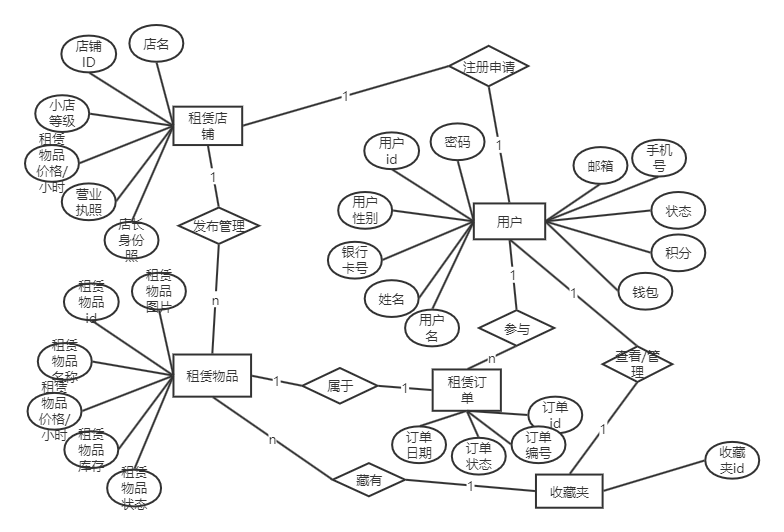
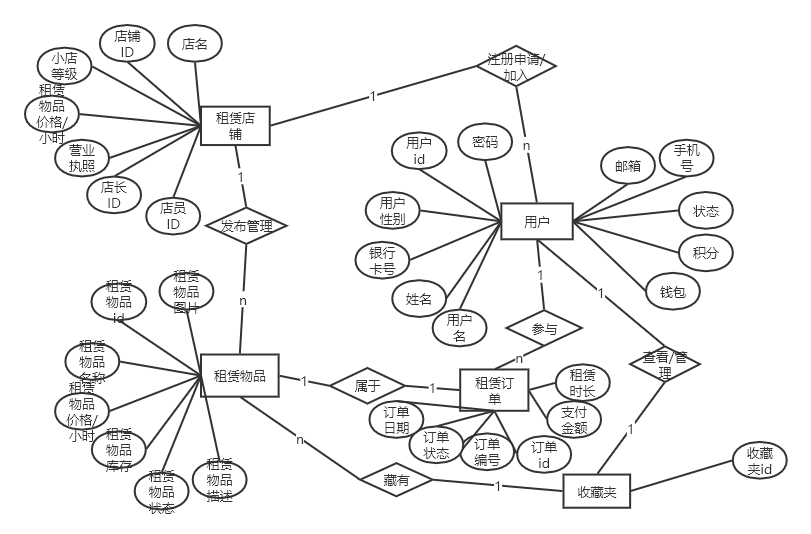
关于数据库的概要、详设和ER图的修改

Changed region(s): [[0.0306, 0.0301, 0.9184, 0.9624], [0.8265, 0.812, 0.9796, 0.9023], [0.7041, 0.5113, 0.7347, 0.5414]]

diff --git a/week_03/概要设计说明书.md b/week_03/概要设计说明书.md
@@ -389,7 +389,7 @@
     <td>char</td>
   </tr>
   <tr>
-    <td rowspan="6">商品</td>
+    <td rowspan="7">商品</td>
     <td>商品ID</td>
     <td>int</td>
   </tr>
@@ -414,7 +414,11 @@
     <td>char</td>
   </tr>
   <tr>
-    <td rowspan="5">店铺表</td>
+    <td>描述</td>
+    <td>char</td>
+  </tr>
+  <tr>
+    <td rowspan="6">店铺表</td>
     <td>店铺ID</td>
     <td>int</td>
   </tr>
@@ -435,6 +439,10 @@
     <td>int</td>
   </tr>
   <tr>
+    <td>店员ID</td>
+    <td>int[]</td>
+  </tr>
+  <tr>
     <td rowspan="4">收藏夹</td>
     <td>收藏夹ID</td>
     <td>int</td>
@@ -452,7 +460,7 @@
     <td>int</td>
   </tr>
   <tr>
-    <td rowspan="6">订单</td>
+    <td rowspan="8">订单</td>
     <td>订单ID</td>
     <td>int</td>
   </tr>
@@ -475,6 +483,14 @@
   <tr>
     <td>订单日期</td>
     <td>char</td>
+  </tr>
+  <tr>
+    <td>支付金额</td>
+    <td>int</td>
+  </tr>
+  <tr>
+    <td>租赁时长</td>
+    <td>int</td>
   </tr>
   <tr>
     <td rowspan="7">地址</td>

diff --git a/week_03/详细设计说明书.md b/week_03/详细设计说明书.md
@@ -632,6 +632,7 @@
 |picture	| 租赁物品图片 |
 |goodsTypeId| 租赁物品状态 |
 |storeId	| 租赁店铺id |
+|describe       | 租赁物品描述 |
 
 4. 租赁店铺(store)
 
@@ -642,7 +643,8 @@
 |storeLevel		| 小店等级 |
 |storePicture	| 营业执照 |
 |IDNumberPicture| 店长身份照 | 
-|userID			| 店长ID |
+|shopownerID			| 店长ID |
+|clerkID                        | 店员ID |
 
 5. 收藏夹表(favorite)
 
@@ -662,6 +664,8 @@
 |userID		| 用户id |
 |state		| 订单状态 |
 |orderDate	| 订单日期 |
+|paymoney       | 支付金额 |
+|leasetime      | 租赁时长 |
 
 ##### 专门指导
 
